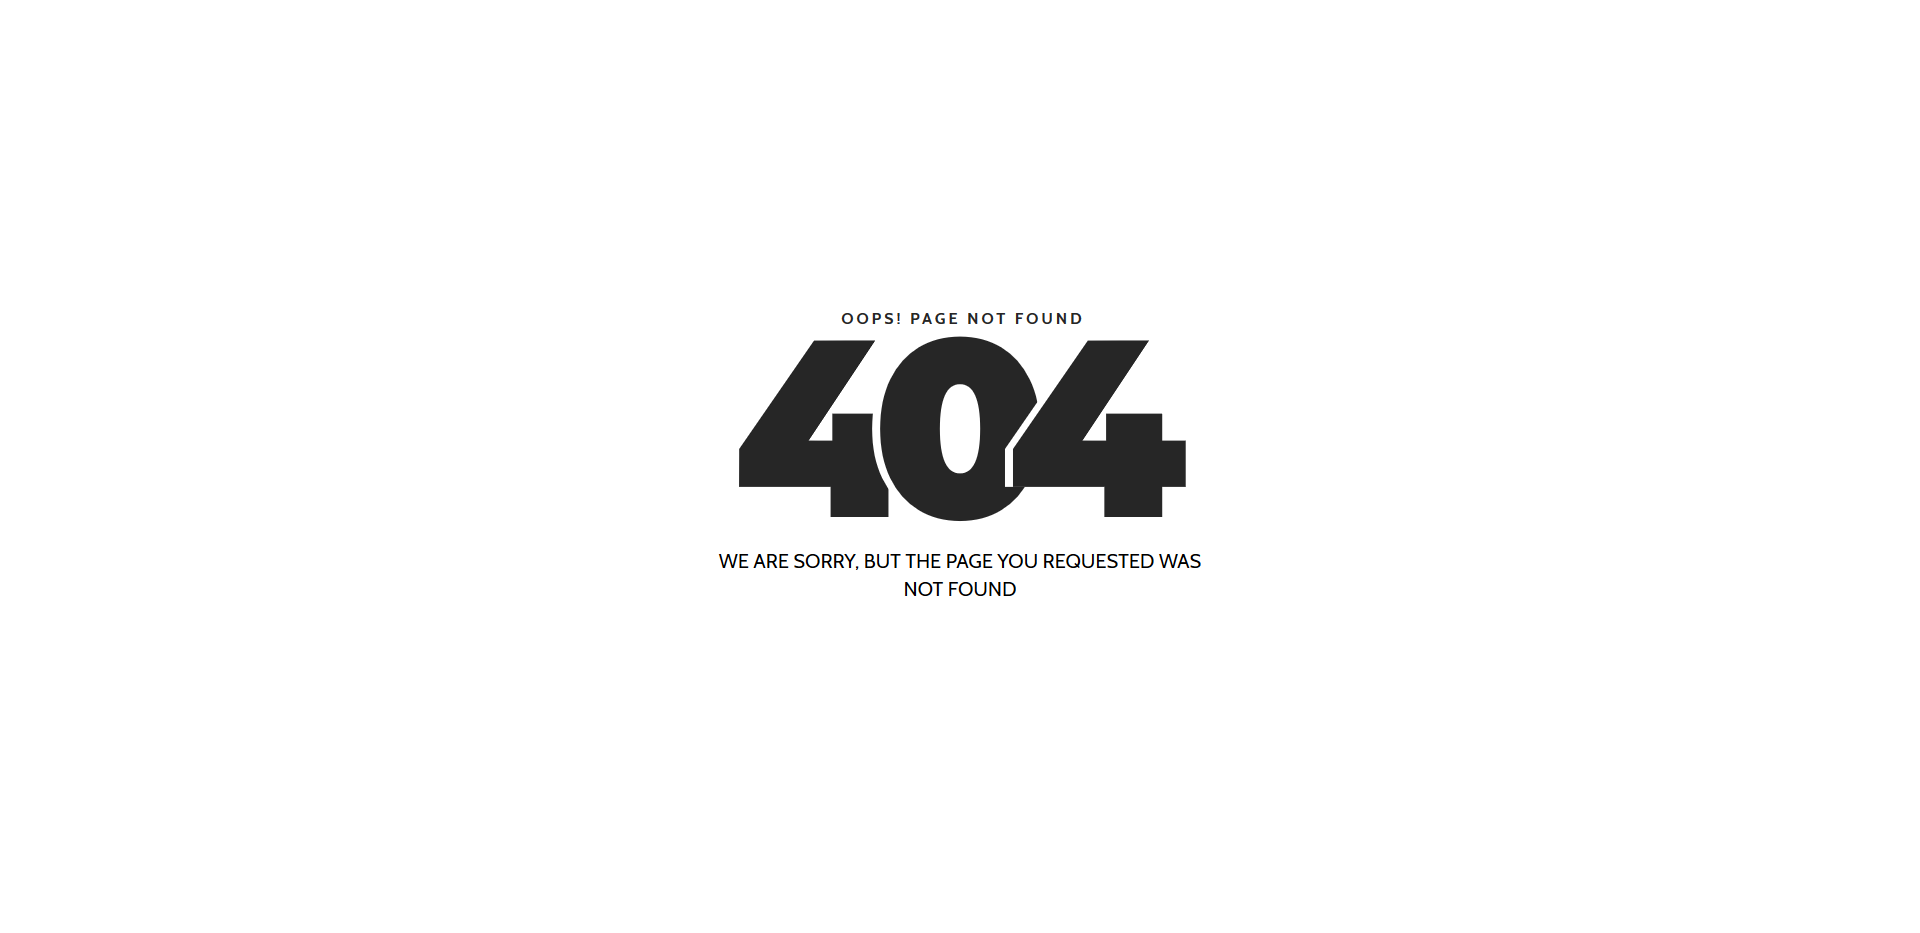
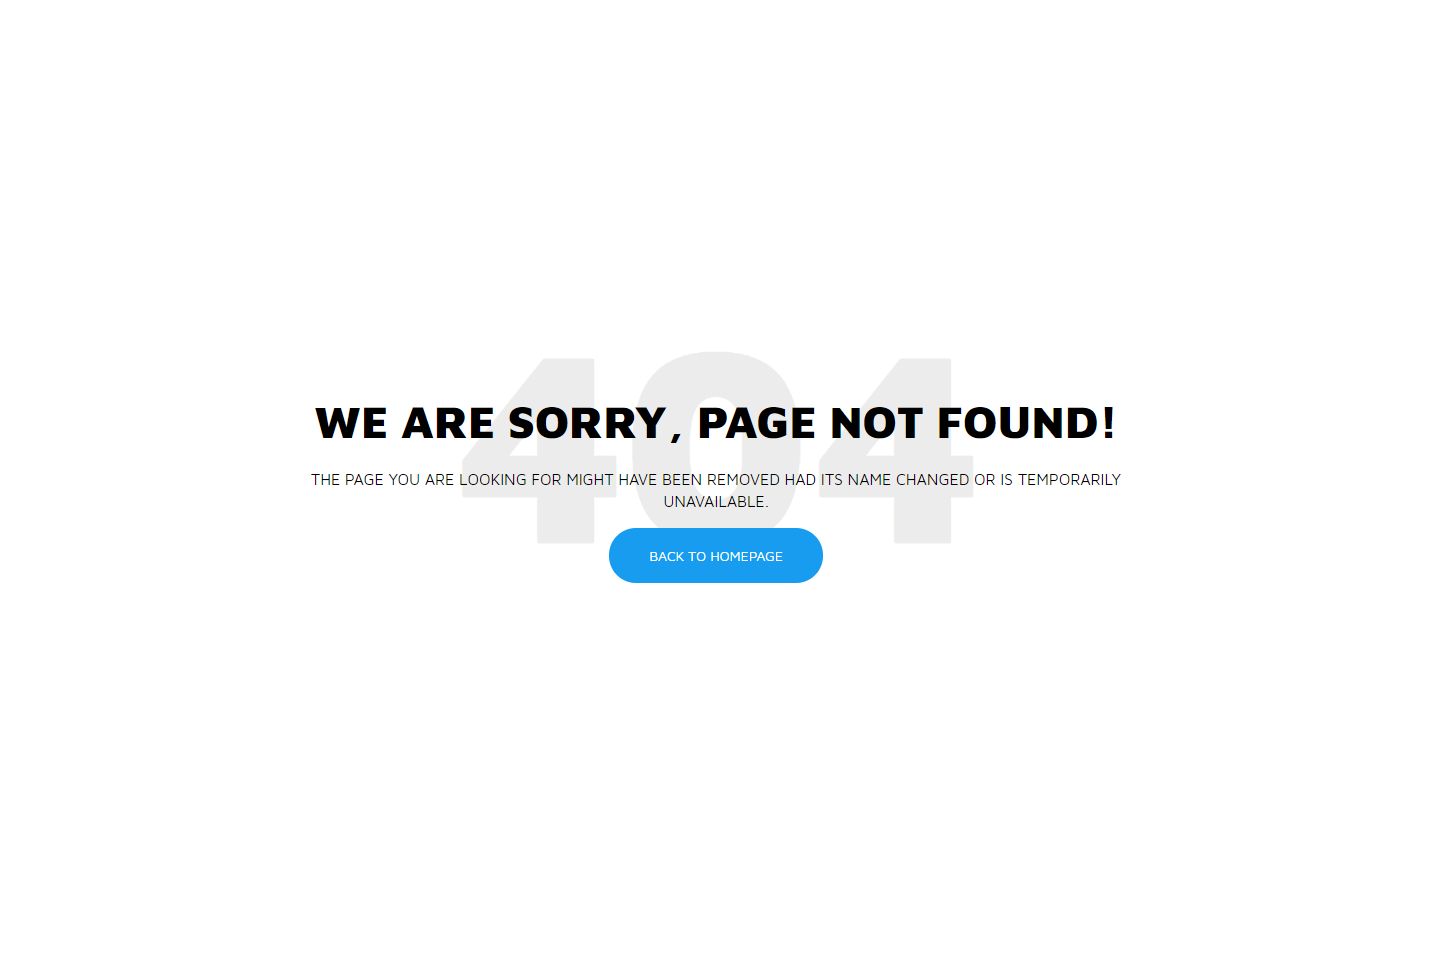
Site updated: 2019-02-27 00:07:56

Changed region(s): [[0.2175, 0.3108, 0.7769, 0.6527]]

diff --git a/404/index.html b/404/index.html
@@ -13,9 +13,11 @@
 <meta property="og:url" content="https://michael-wang.github.io/404/index.html">
 <meta property="og:site_name" content="Irregular Game Dev">
 <meta property="og:locale" content="default">
-<meta property="og:updated_time" content="2019-02-25T16:12:00.120Z">
+<meta property="og:image" content="https://michael-wang.github.io/images/404.png">
+<meta property="og:updated_time" content="2019-02-25T16:13:34.721Z">
 <meta name="twitter:card" content="summary">
 <meta name="twitter:title" content="404 File Not Found">
+<meta name="twitter:image" content="https://michael-wang.github.io/images/404.png">
   
     <link rel="alternative" href="/atom.xml" title="Irregular Game Dev" type="application/atom+xml">
   
@@ -154,14 +156,14 @@
 
         
         <a href="/404/index.html" class="archive-article-date">
-  	<time datetime="2019-02-25T16:12:00.133Z" itemprop="datePublished"><i class="icon-calendar icon"></i>2019-02-26</time>
+  	<time datetime="2019-02-25T16:13:34.732Z" itemprop="datePublished"><i class="icon-calendar icon"></i>2019-02-26</time>
 </a>
         
       </header>
     
     <div class="article-entry" itemprop="articleBody">
       
-        
+        <p><img src="/images/404.png" alt></p>
 
       
 
